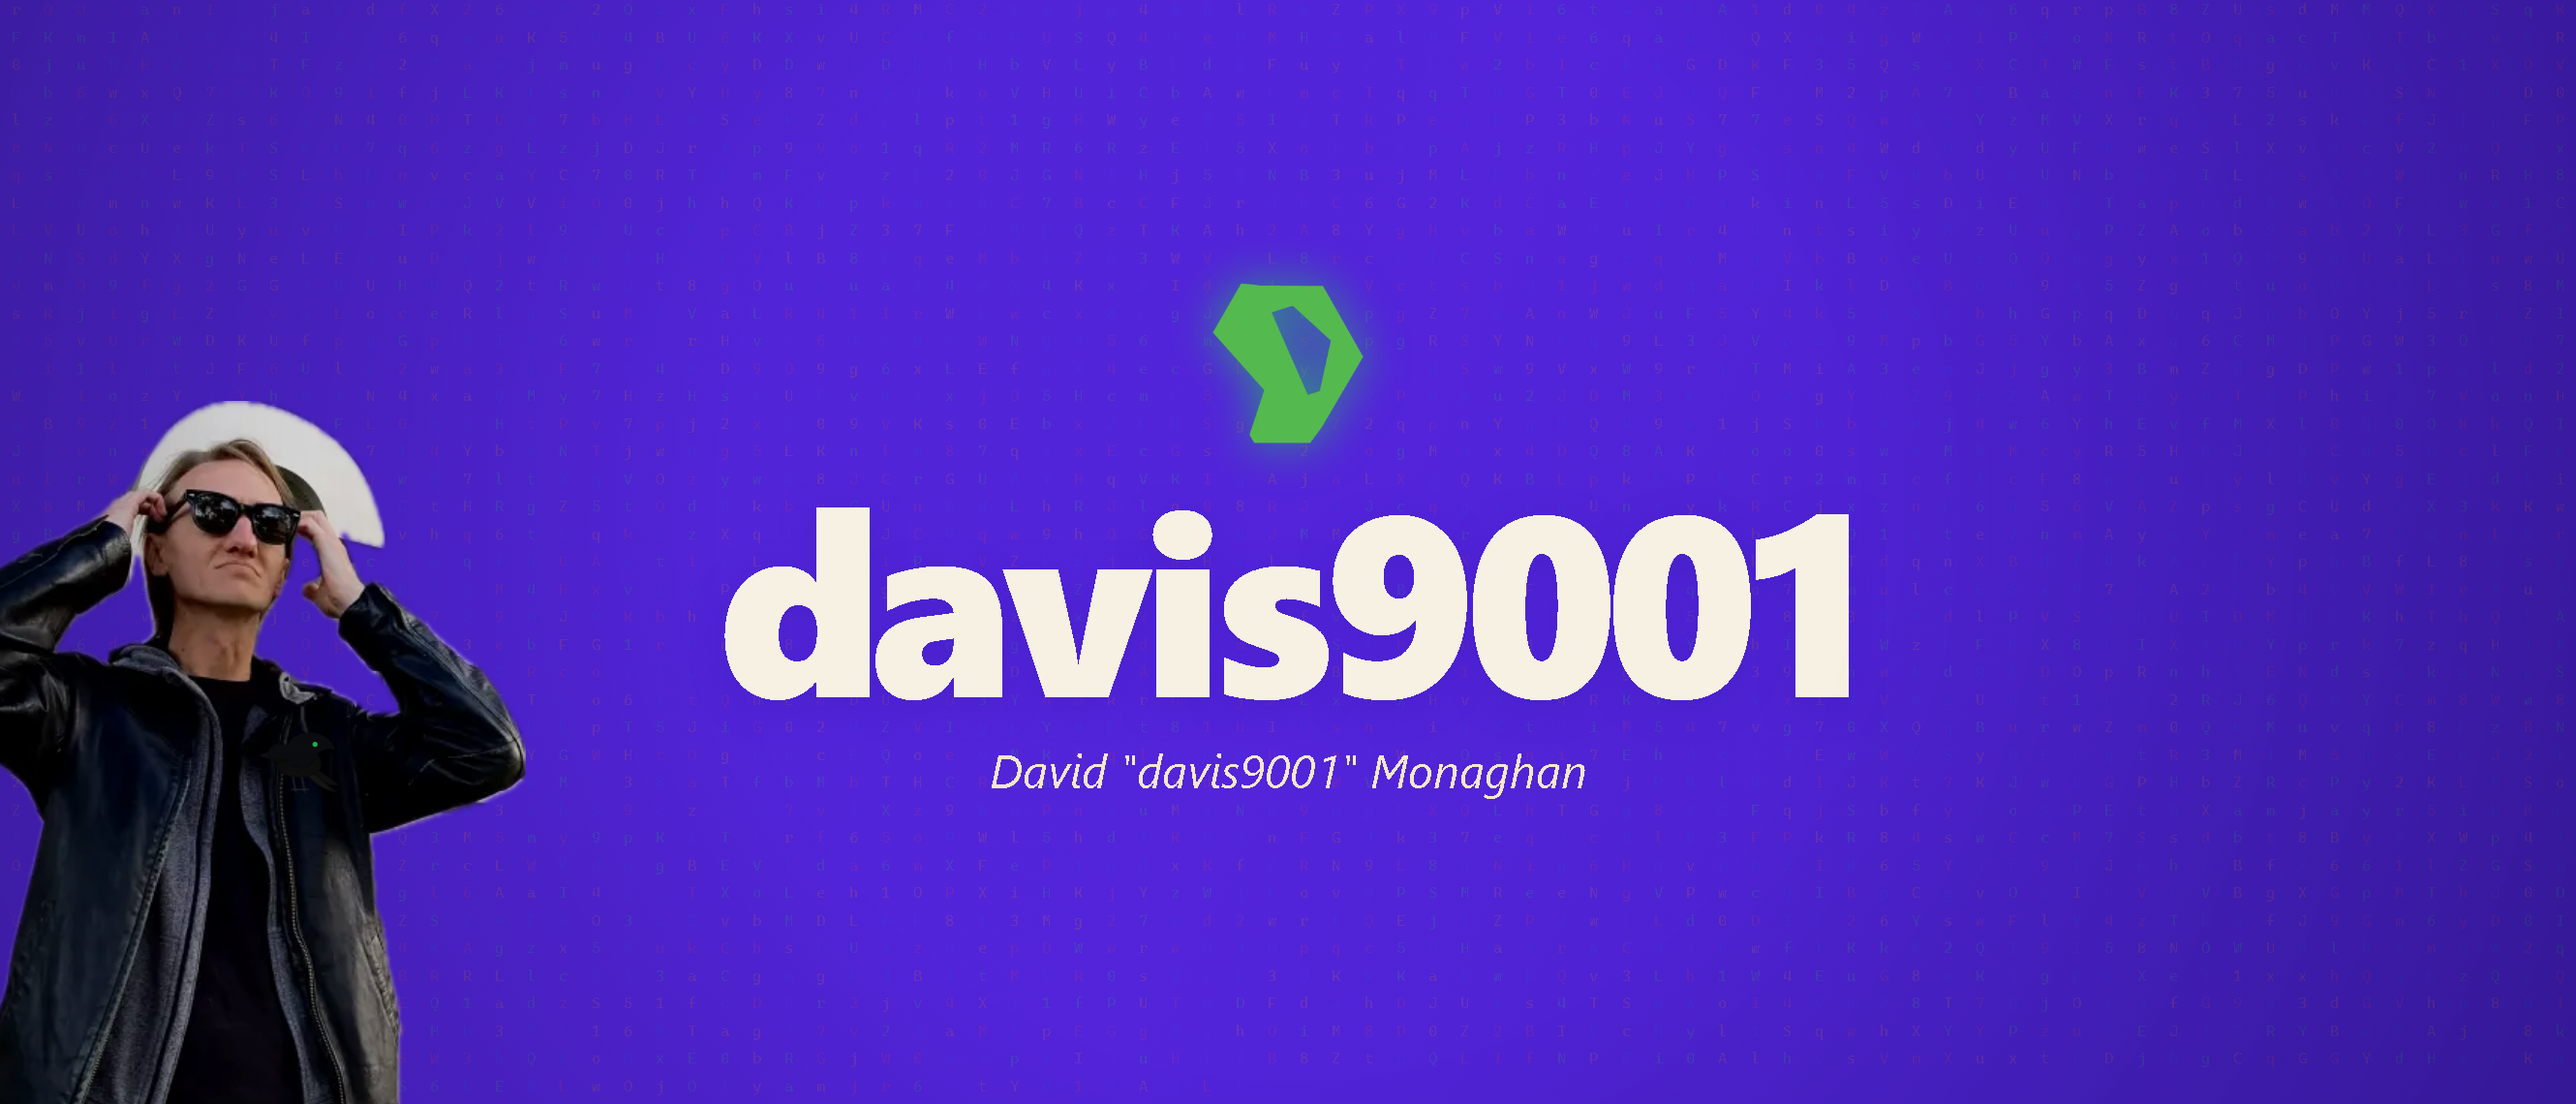
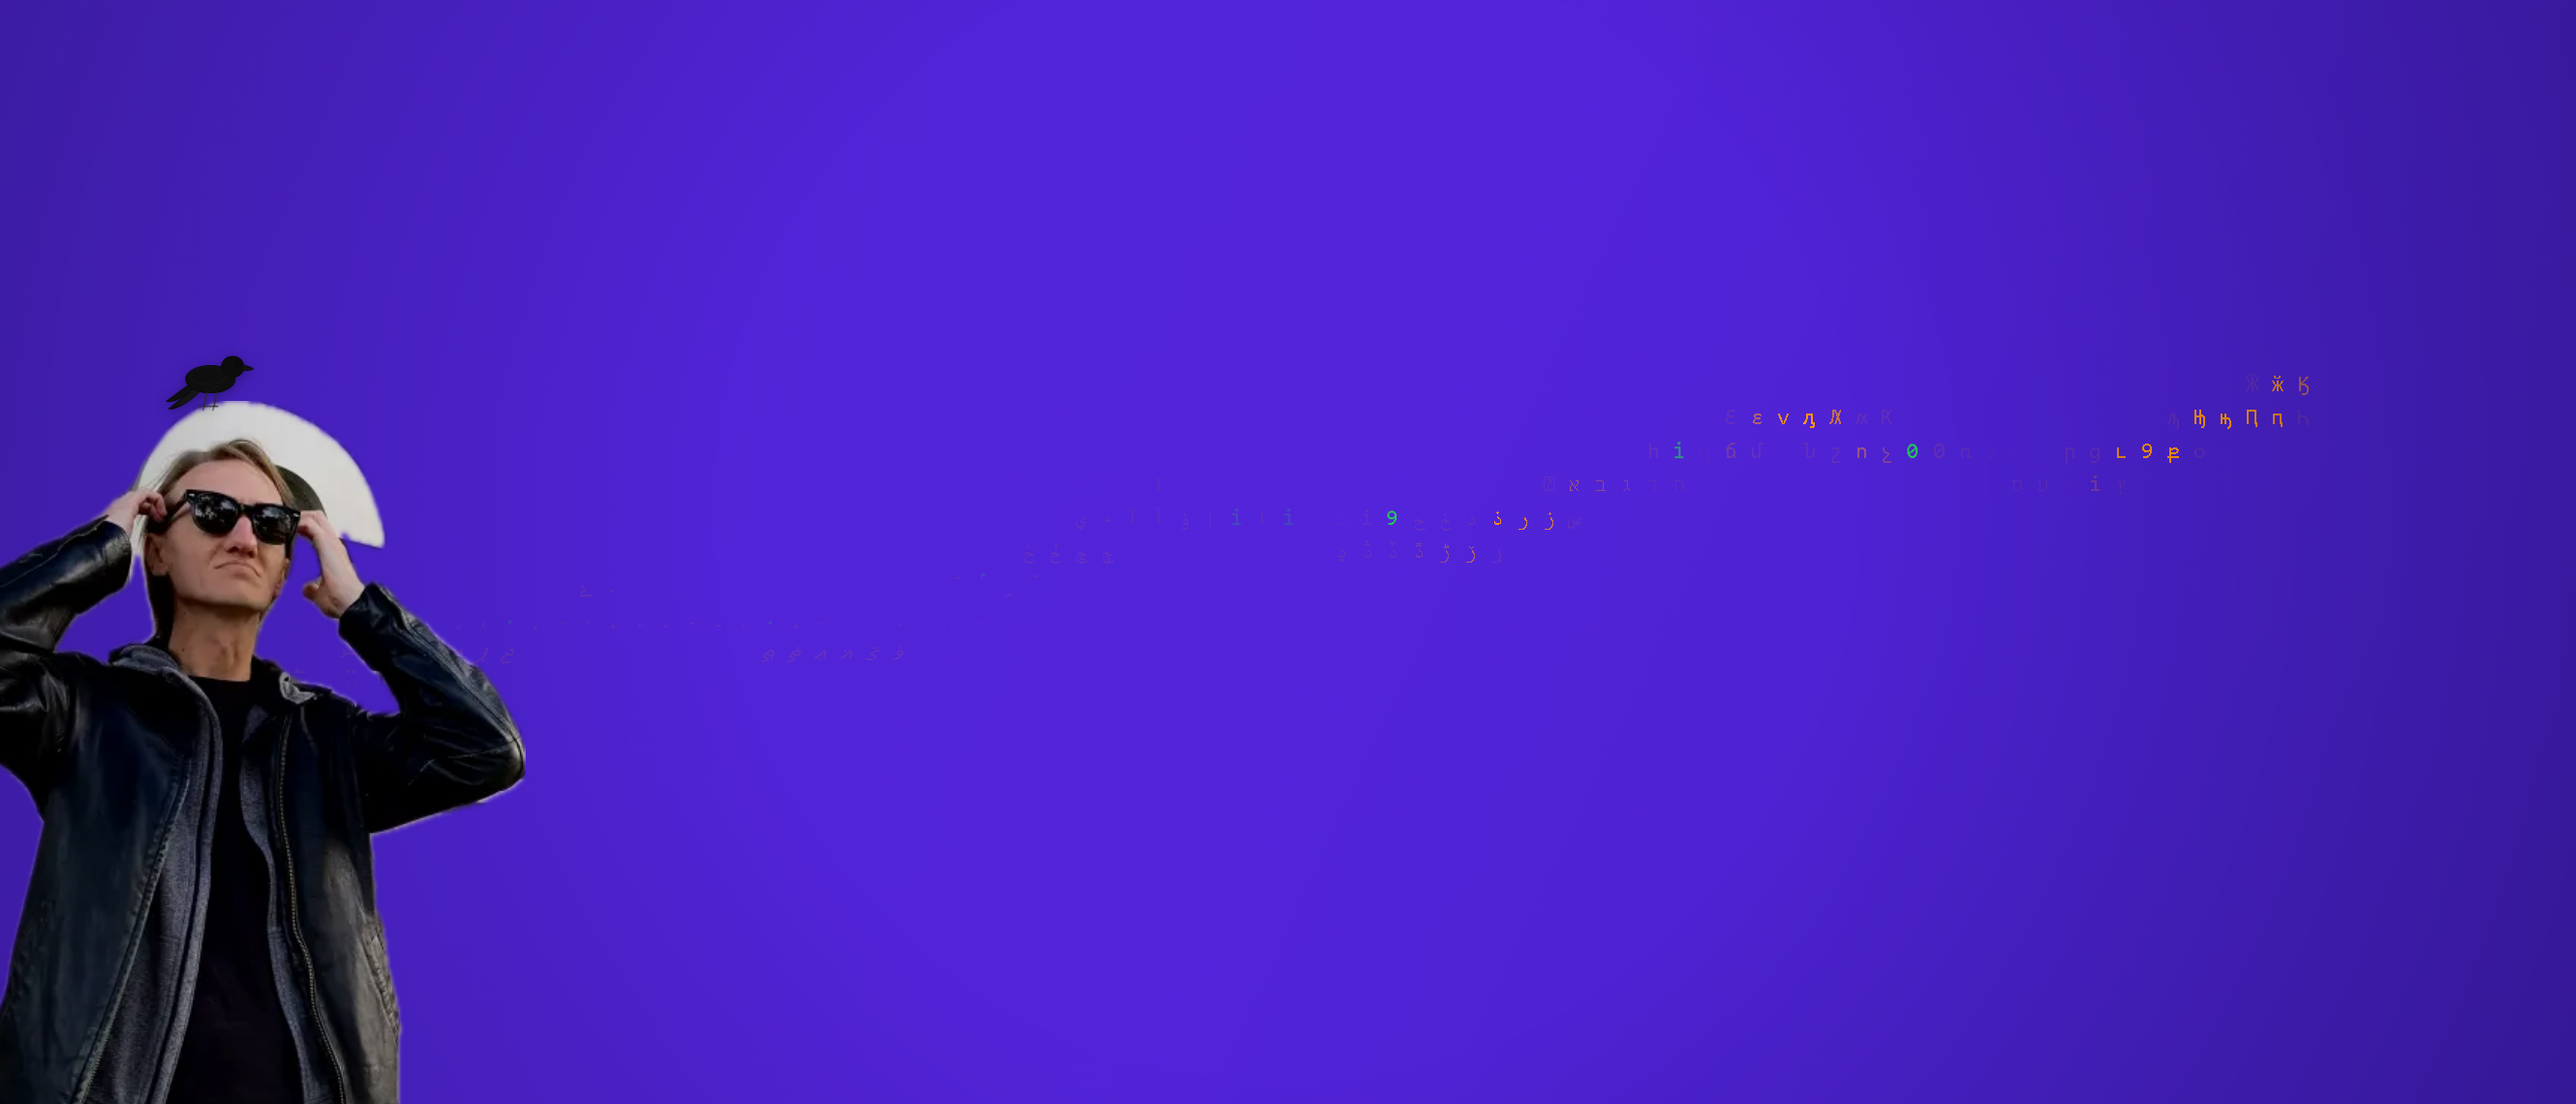
feat: enhance Spotify header screenshot script with mouse path animation and update styles

diff --git a/src/routes/hidden/spotify-header/+page.svelte b/src/routes/hidden/spotify-header/+page.svelte
@@ -7,58 +7,9 @@
 	const IMG_NAT_W = 420;
 	const IMG_NAT_H = 736;
 
-	type MatrixGlyph = {
-		char: string;
-		stateClass: string;
-		colorToken: string;
-	};
-
-	let matrixGlyphs: MatrixGlyph[] = [];
+	let asciiCharacters: string[] = [];
+	let haloPoint = { x: 0, y: 0 };
 	let crowTargets: CrowTarget[] = [];
-	let shoulderPoint = { x: 0, y: 0 };
-
-	function seededRandom(seed: number): () => number {
-		let state = seed >>> 0;
-		return () => {
-			state += 0x6d2b79f5;
-			let t = state;
-			t = Math.imul(t ^ (t >>> 15), t | 1);
-			t ^= t + Math.imul(t ^ (t >>> 7), t | 61);
-			return ((t ^ (t >>> 14)) >>> 0) / 4294967296;
-		};
-	}
-
-	function generateMatrixGlyphs(count: number): MatrixGlyph[] {
-		const rand = seededRandom(9001);
-		const source = '0123456789ABCDEFGHIJKLMNOPQRSTUVWXYZabcdefghijklmnopqrstuvwxyz';
-		const colorTokens = [
-			'hsla(var(--accent), 1)',
-			'hsla(var(--special), 1)',
-			'hsla(var(--secondary), 1)',
-			'hsla(var(--link-blue), 1)'
-		];
-		const glyphs: MatrixGlyph[] = [];
-
-		for (let i = 0; i < count; i += 1) {
-			const index = Math.floor(rand() * source.length);
-			const stateRoll = rand();
-			let stateClass = 'highlighted-secondary';
-			if (stateRoll > 0.965) {
-				stateClass = 'highlighted-extra-special';
-			} else if (stateRoll > 0.84) {
-				stateClass = 'highlighted-special';
-			} else if (stateRoll > 0.58) {
-				stateClass = 'highlighted';
-			}
-			glyphs.push({
-				char: source[index],
-				stateClass,
-				colorToken: colorTokens[Math.floor(rand() * colorTokens.length)]
-			});
-		}
-
-		return glyphs;
-	}
 
 	function measureBgOffset(): { offsetX: number; offsetY: number } {
 		const measure = document.createElement('div');
@@ -72,35 +23,42 @@
 		return { offsetX: -chPx, offsetY: emPx };
 	}
 
-	function computeShoulderTarget() {
+	function computeHaloPoint() {
 		const vw = window.innerWidth;
 		const vh = window.innerHeight;
 		const { offsetX, offsetY } = measureBgOffset();
-
-		const imageBounds = computeContainedImageBounds(vw, vh, IMG_NAT_W, IMG_NAT_H, offsetX, offsetY);
-		const shoulder = imageLandmarkToViewport(0.64, 0.34, imageBounds);
-		shoulderPoint = shoulder;
+		const imgBounds = computeContainedImageBounds(vw, vh, IMG_NAT_W, IMG_NAT_H, offsetX, offsetY);
+		haloPoint = imageLandmarkToViewport(0.5, -0.01, imgBounds);
 
 		crowTargets = [
 			{
-				id: 'shoulder',
-				x: shoulder.x,
-				y: shoulder.y,
-				scale: 1.42,
-				zIndex: 42,
-				flipX: true
+				id: 'halo',
+				x: haloPoint.x,
+				y: haloPoint.y,
+				scale: 1.56,
+				zIndex: 47,
+				flipX: false
 			}
 		];
 	}
 
 	onMount(() => {
-		matrixGlyphs = generateMatrixGlyphs(3200 - 42 + 1);
+		const chars = [];
+		for (let i = 42; i <= 4200; i += 1) {
+			chars.push(String.fromCharCode(i));
+		}
+		asciiCharacters = chars;
 
-		computeShoulderTarget();
-		window.addEventListener('resize', computeShoulderTarget);
+		const script = document.createElement('script');
+		script.src = '/ascii-animate.js';
+		document.head.appendChild(script);
+
+		computeHaloPoint();
+		window.addEventListener('resize', computeHaloPoint);
 
 		return () => {
-			window.removeEventListener('resize', computeShoulderTarget);
+			window.removeEventListener('resize', computeHaloPoint);
+			script.remove();
 		};
 	});
 </script>
@@ -115,49 +73,24 @@
 		"
 	/>
 
-	<div class="matrix-layer" aria-hidden="true">
-		{#each matrixGlyphs as glyph}
-			<span
-				class="matrix-char ascii-character {glyph.stateClass}"
-				style="color: {glyph.colorToken};"
-			>
-				{glyph.char}
-			</span>
+	<div class="ascii-layer fixed top-0 left-0 z-10 select-none font-mono items-center grid grid-cols-23 sm:grid-cols-42 lg:grid-cols-99 justify-center text-foreground text-center w-screen h-screen min-w-screen min-h-screen" aria-hidden="true">
+		{#each asciiCharacters as char}
+			<div class="inline-block w-5 text-secondary ascii-character">
+				{char}
+			</div>
 		{/each}
 	</div>
 
 	{#if crowTargets.length > 0}
 		<AnimatedCrow
 			targets={crowTargets}
-			startingTargetId="shoulder"
+			startingTargetId="halo"
 			minIdleSeconds={999}
 			maxIdleSeconds={999}
 			flightDurationMs={2600}
 		/>
 	{/if}
 
-	<div
-		class="shoulder-crow"
-		aria-hidden="true"
-		style="transform: translate({shoulderPoint.x - 40}px, {shoulderPoint.y - 64}px);"
-	>
-		<svg viewBox="0 0 84 64" width="84" height="64" role="img">
-			<path d="M6 46c4-10 12-14 22-14 4-8 13-13 24-13 12 0 22 7 26 18-4-2-8-2-12 0l-8 4 6 7-10-1-8 9-8-5-12 3 4-8z" fill="var(--spotify-header-crow-body)" />
-			<circle cx="57" cy="31" r="2.6" fill="var(--color-accent)" />
-		</svg>
-	</div>
-
-	<section class="hero-shell" role="banner">
-		<img
-			class="hero-logo"
-			src="/logo-green-Icon-250.webp"
-			width="210"
-			height="210"
-			alt="davis9001 logo"
-		/>
-		<h1 class="hero-title">davis9001</h1>
-		<p class="hero-subtitle">David "davis9001" Monaghan</p>
-	</section>
 </main>
 
 <style>
@@ -184,70 +117,8 @@
 		pointer-events: none;
 	}
 
-	.matrix-layer {
-		position: absolute;
-		inset: 0;
-		display: grid;
-		grid-template-columns: repeat(80, minmax(0, 1fr));
-		gap: 0;
-		place-content: stretch;
-		z-index: 10;
+	.ascii-layer {
 		pointer-events: none;
-		opacity: 0.6;
-	}
-
-	.matrix-char {
-		font-family: var(--font-mono);
-		font-size: 0.68rem;
-		line-height: 1.25;
-		opacity: 0.22;
-		animation: none;
-		transform: none;
-		user-select: none;
-	}
-
-	.hero-shell {
-		position: relative;
-		z-index: 40;
-		height: 100%;
-		display: flex;
-		flex-direction: column;
-		align-items: center;
-		justify-content: center;
-		padding: 2rem 1rem 3rem;
-	}
-
-	.hero-logo {
-		width: 170px;
-		height: 170px;
-		margin: 0 auto 0.9rem;
-		filter: drop-shadow(0 0 24px color-mix(in srgb, var(--color-accent) 70%, transparent));
-	}
-
-	.hero-title {
-		font-size: clamp(6.2rem, 11vw, 11.5rem);
-		font-weight: 900;
-		letter-spacing: -0.045em;
-		line-height: 1;
-		color: var(--spotify-header-title);
-		margin: 0;
-		text-shadow: 0 8px 32px color-mix(in srgb, var(--spotify-header-bg-end) 60%, transparent);
-	}
-
-	.hero-subtitle {
-		margin-top: 0.8rem;
-		font-size: clamp(1.5rem, 2vw, 2.1rem);
-		font-style: italic;
-		line-height: 1.3;
-		color: var(--spotify-header-subtitle);
-	}
-
-	.hero-role {
-		margin-top: 1.1rem;
-		font-size: clamp(2.25rem, 3.5vw, 3.85rem);
-		font-weight: 500;
-		line-height: 1.2;
-		color: var(--spotify-header-role);
 	}
 
 	.spotify-header-route::after {
@@ -260,10 +131,4 @@
 			radial-gradient(circle at 50% 46%, transparent 40%, var(--spotify-header-vignette) 100%);
 	}
 
-	.shoulder-crow {
-		position: absolute;
-		z-index: 47;
-		pointer-events: none;
-		filter: drop-shadow(0 3px 7px var(--spotify-header-crow-shadow));
-	}
 </style>

diff --git a/src/app.css b/src/app.css
@@ -64,6 +64,10 @@
 	--spotify-header-matrix: rgba(255, 170, 47, 0.22);
 	--spotify-header-vignette: rgba(0, 0, 0, 0.24);
 	--spotify-header-crow-body: rgba(12, 14, 18, 0.96);
+	--spotify-header-crow-outline: rgba(112, 235, 188, 0.58);
+	--spotify-header-crow-highlight: rgba(146, 242, 205, 0.72);
+	--spotify-header-crow-beak: rgba(26, 29, 34, 0.98);
+	--spotify-header-crow-eye-glint: rgba(255, 255, 255, 0.88);
 	--spotify-header-crow-shadow: rgba(0, 0, 0, 0.55);
 }
 
@@ -103,6 +107,10 @@
 	--spotify-header-matrix: rgba(255, 170, 47, 0.2);
 	--spotify-header-vignette: rgba(0, 0, 0, 0.28);
 	--spotify-header-crow-body: rgba(12, 14, 18, 0.96);
+	--spotify-header-crow-outline: rgba(112, 235, 188, 0.58);
+	--spotify-header-crow-highlight: rgba(146, 242, 205, 0.72);
+	--spotify-header-crow-beak: rgba(26, 29, 34, 0.98);
+	--spotify-header-crow-eye-glint: rgba(255, 255, 255, 0.88);
 	--spotify-header-crow-shadow: rgba(0, 0, 0, 0.55);
 }
 
